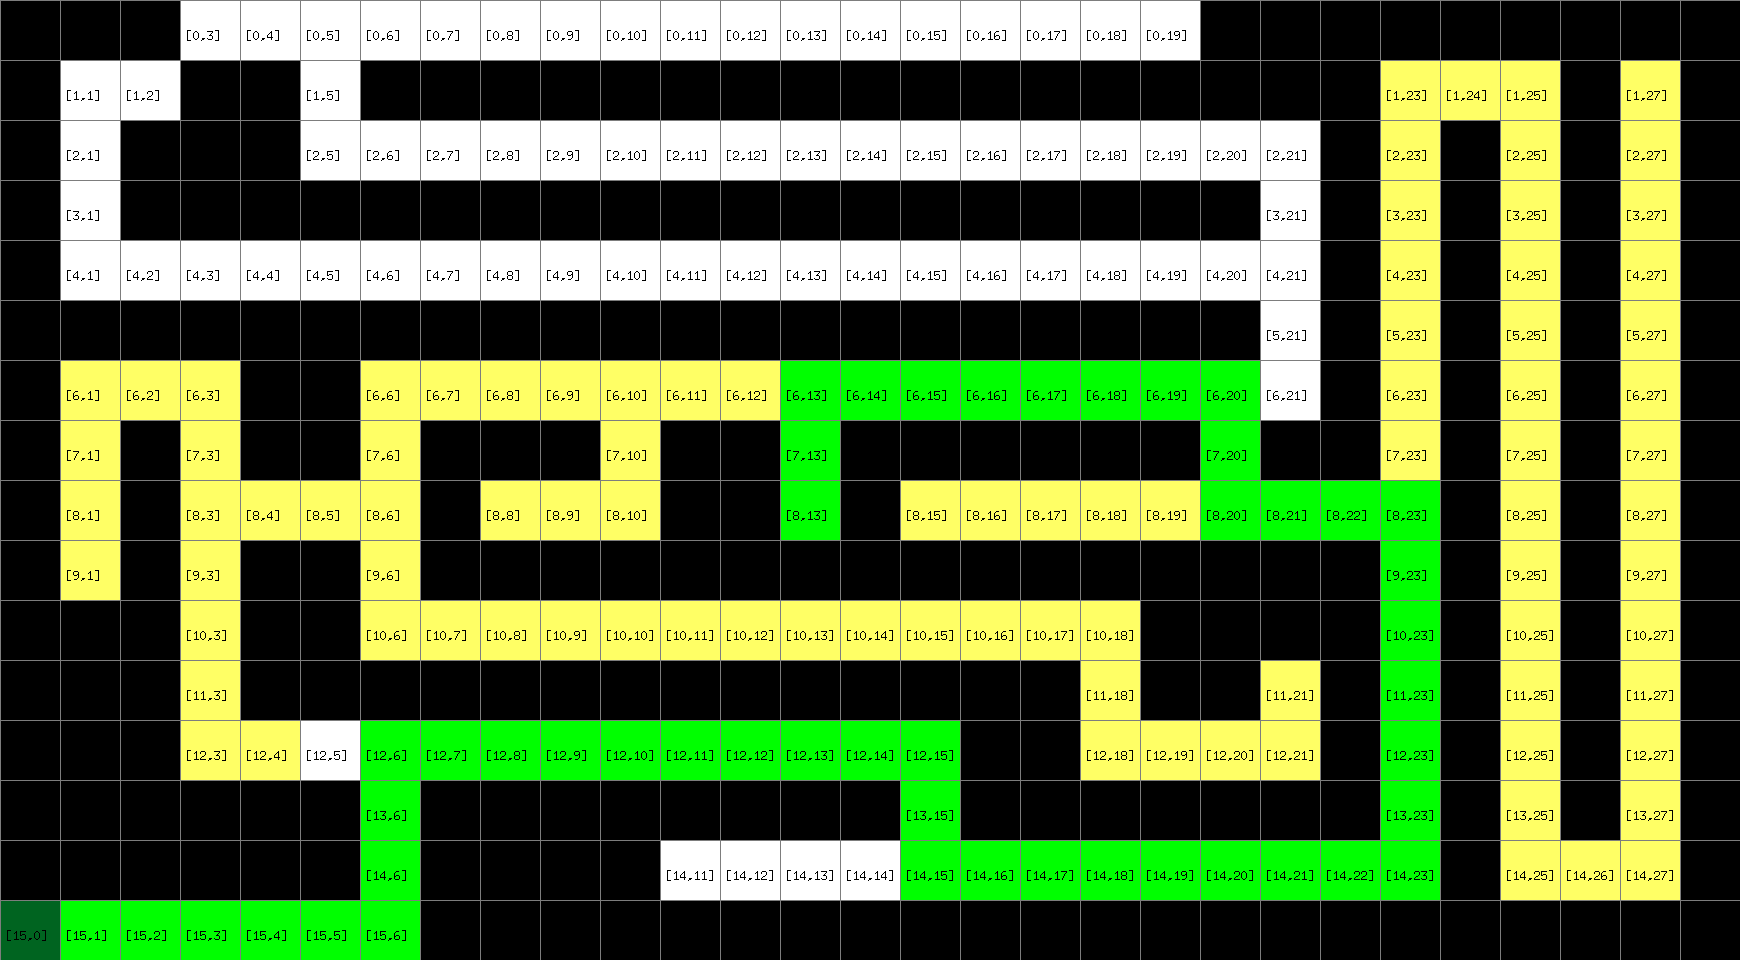
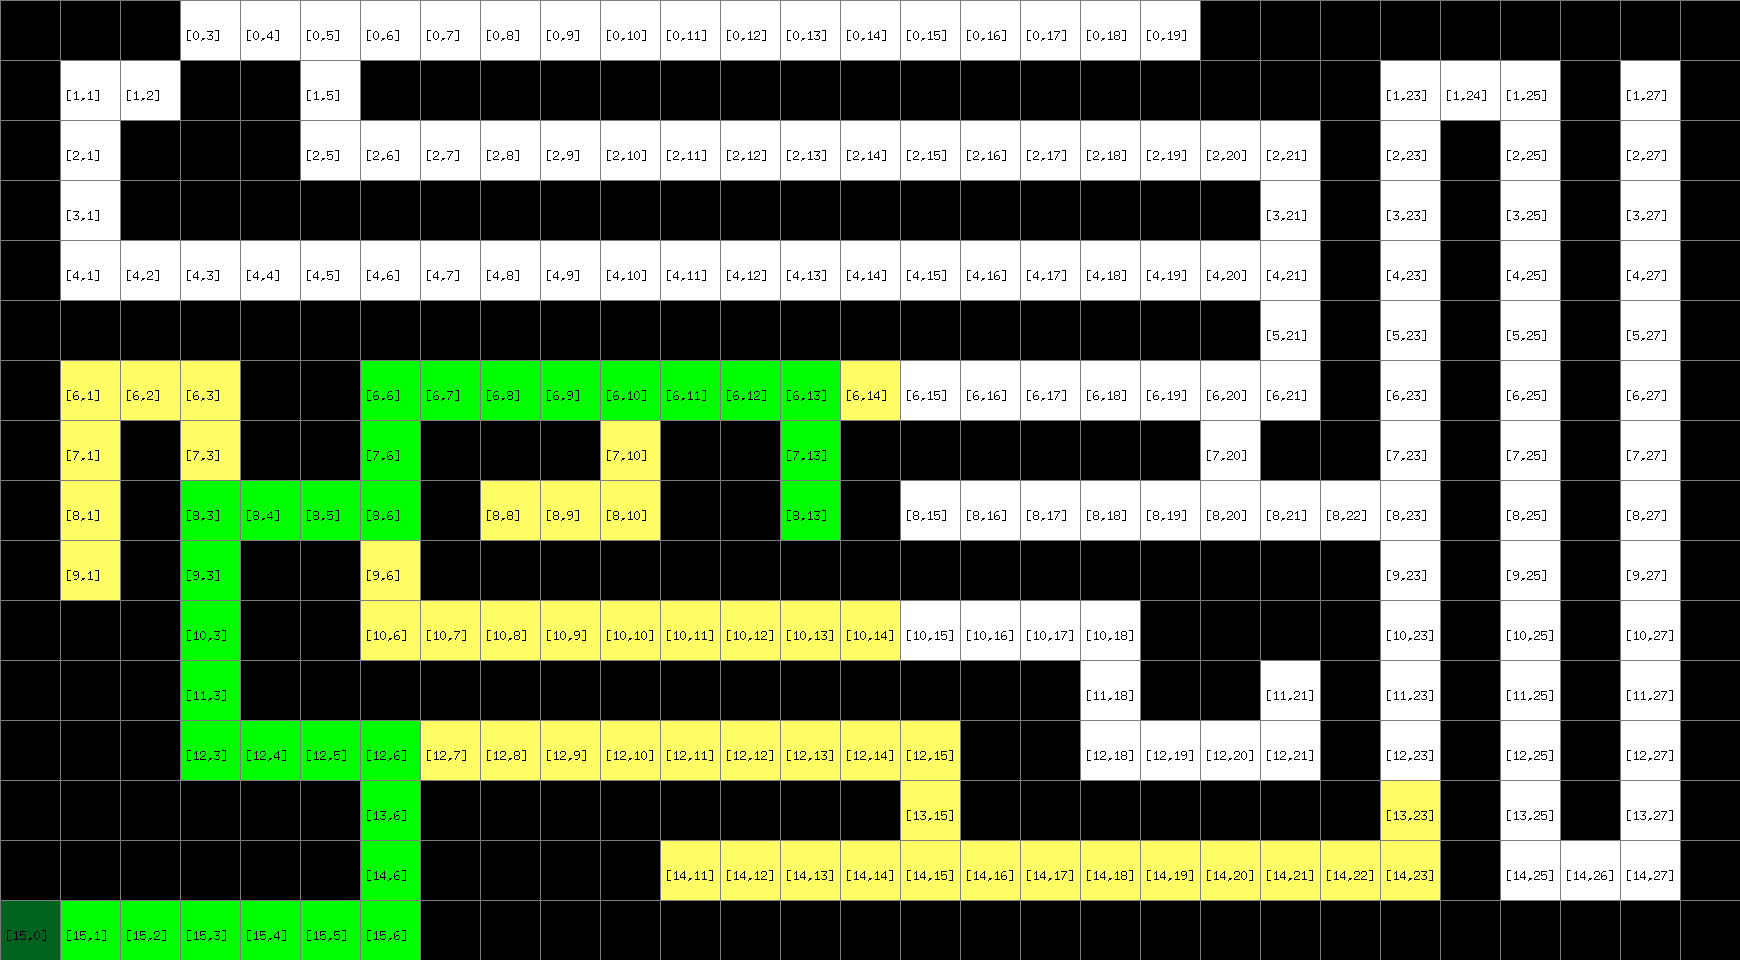
Implements BFS

Changed region(s): [[0.0931, 0.0625, 0.9931, 0.9375]]

diff --git a/udemy/IntroToAI/ai-search/bfs.go b/udemy/IntroToAI/ai-search/bfs.go
@@ -1,0 +1,157 @@
+package main
+
+import (
+	"fmt"
+	"log"
+	"slices"
+)
+
+// BreadthFirstSearch struct implements the BFS algorithm
+type BreadthFirstSearch struct {
+	Frontier []*Node
+	Game     *Maze
+}
+
+func (bfs *BreadthFirstSearch) GetFrontier() []*Node {
+	return bfs.Frontier
+}
+
+func (bfs *BreadthFirstSearch) Add(node *Node) {
+	bfs.Frontier = append(bfs.Frontier, node)
+}
+
+func (bfs *BreadthFirstSearch) ContainsState(i *Node) bool {
+	for _, node := range bfs.Frontier {
+		if node.State == i.State {
+			return true
+		}
+	}
+	return false
+}
+
+func (bfs *BreadthFirstSearch) Empty() bool {
+	return len(bfs.Frontier) == 0
+}
+
+func (bfs *BreadthFirstSearch) Remove() (*Node, error) {
+	if !bfs.Empty() {
+		if bfs.Game.Debug {
+			fmt.Println("BFS Frontier before remove:")
+			for _, n := range bfs.Frontier {
+				fmt.Printf("Node State: %v\n", n.State)
+			}
+		}
+		// BFS uses FIFO (First In, First Out) - remove from the beginning
+		node := bfs.Frontier[0]
+		bfs.Frontier = bfs.Frontier[1:]
+		return node, nil
+	}
+	return nil, fmt.Errorf("Frontier is empty")
+}
+
+func (bfs *BreadthFirstSearch) Solve() {
+	fmt.Println("Solving maze using Breadth-First Search...")
+	bfs.Game.NumExplored = 0
+
+	start := Node{
+		State:  bfs.Game.Start,
+		Parent: nil,
+		Action: "",
+	}
+	bfs.Add(&start)
+	bfs.Game.CurrentNode = &start
+
+	for {
+		if bfs.Empty() {
+			return
+		}
+
+		currentNode, err := bfs.Remove()
+		if err != nil {
+			log.Println("Error removing node from frontier:", err)
+			return
+		}
+
+		if bfs.Game.Debug {
+			fmt.Println("Removed:", currentNode.State)
+			fmt.Println("---------------")
+			fmt.Println()
+		}
+
+		bfs.Game.CurrentNode = currentNode
+		bfs.Game.NumExplored += 1
+
+		// Have we found the solution?
+		if bfs.Game.Goal == currentNode.State {
+			var actions []string
+			var cells []Point
+
+			for {
+				if currentNode.Parent != nil {
+					actions = append(actions, currentNode.Action)
+					cells = append(cells, currentNode.State)
+					currentNode = currentNode.Parent
+				} else {
+					break
+				}
+			}
+
+			// Reverse the actions and cells
+			slices.Reverse(actions)
+			slices.Reverse(cells)
+
+			bfs.Game.Solution = Solution{
+				Actions: actions,
+				Cells:   cells,
+			}
+
+			bfs.Game.Explored = append(bfs.Game.Explored, currentNode.State)
+			break
+		}
+
+		bfs.Game.Explored = append(bfs.Game.Explored, currentNode.State)
+
+		// Build animation frame if appropriate
+		if bfs.Game.Animate {
+			bfs.Game.OutputImage(fmt.Sprintf("tmp/%06d.png", bfs.Game.NumExplored))
+		}
+
+		for _, neighbor := range bfs.Neighbors(currentNode) {
+			if !bfs.ContainsState(neighbor) {
+				if !inExplored(neighbor.State, bfs.Game.Explored) {
+					bfs.Add(&Node{
+						State:  neighbor.State,
+						Parent: currentNode,
+						Action: neighbor.Action,
+					})
+				}
+			}
+		}
+	}
+}
+
+func (bfs *BreadthFirstSearch) Neighbors(node *Node) []*Node {
+	row := node.State.Row
+	col := node.State.Col
+
+	candidates := []*Node{
+		{State: Point{Row: row - 1, Col: col}, Parent: node, Action: "up"},
+		{State: Point{Row: row + 1, Col: col}, Parent: node, Action: "down"},
+		{State: Point{Row: row, Col: col - 1}, Parent: node, Action: "left"},
+		{State: Point{Row: row, Col: col + 1}, Parent: node, Action: "right"},
+	}
+
+	var neighbors []*Node
+	for _, candidate := range candidates {
+		if 0 <= candidate.State.Row && candidate.State.Row < bfs.Game.Height {
+			if 0 <= candidate.State.Col && candidate.State.Col < bfs.Game.Width {
+				if !bfs.Game.Walls[candidate.State.Row][candidate.State.Col].wall {
+					neighbors = append(neighbors, candidate)
+				}
+			}
+		}
+	}
+
+	// BFS does not randomize neighbors - explores in consistent order
+	return neighbors
+}

diff --git a/udemy/IntroToAI/ai-search/main.go b/udemy/IntroToAI/ai-search/main.go
@@ -91,6 +91,9 @@ func main() {
 	case "dfs":
 		m.SearchType = DFS
 		solveDFS(&m)
+	case "bfs":
+		m.SearchType = BFS
+		solveBFS(&m)
 	default:
 		fmt.Printf("Search type %s not recognized\n", searchType)
 		os.Exit(1)
@@ -148,6 +151,13 @@ func (g *Maze) inSolution(p Point) bool {
 
 func solveDFS(m *Maze) {
 	var s DepthFirstSearch
+	s.Game = m
+	fmt.Println("Goal is at:", s.Game.Goal)
+	s.Solve()
+}
+
+func solveBFS(m *Maze) {
+	var s BreadthFirstSearch
 	s.Game = m
 	fmt.Println("Goal is at:", s.Game.Goal)
 	s.Solve()

diff --git a/udemy/IntroToAI/ai-search/dfs.go b/udemy/IntroToAI/ai-search/dfs.go
@@ -42,6 +42,7 @@ func (dfs *DepthFirstSearch) Remove() (*Node, error) {
 				fmt.Printf("Node State: %v\n", n.State)
 			}
 		}
+		// DFS uses LIFO (Last In, First Out) - remove from the end
 		node := dfs.Frontier[len(dfs.Frontier)-1]
 		dfs.Frontier = dfs.Frontier[:len(dfs.Frontier)-1]
 		return node, nil

diff --git a/udemy/IntroToAI/CLAUDE.md b/udemy/IntroToAI/CLAUDE.md
@@ -20,9 +20,20 @@ cd ai-search
 go run main.go -file mazes/maze.txt -search dfs
 ```
 
-Planned search algorithms (only DFS currently implemented):
-- `dfs` - Depth-First Search (implemented)
-- `bfs` - Breadth-First Search (planned)
+Available command-line flags:
+- `-file <path>`: Maze file to solve (default: "maze.txt")
+- `-search <algorithm>`: Search algorithm to use (default: "dfs")
+- `-debug`: Enable verbose debugging output to console
+- `-animate`: Generate an animated PNG showing the search process
+
+Example with animation:
+```bash
+go run main.go -file mazes/maze-100-steps.txt -search dfs -animate
+```
+
+Search algorithms:
+- `dfs` - Depth-First Search (implemented) - Uses LIFO stack, randomizes neighbor order
+- `bfs` - Breadth-First Search (implemented) - Uses FIFO queue, guarantees shortest path
 - `gbfs` - Greedy Best-First Search (planned)
 - `astar` - A* Search (planned)
 - `dijkstra` - Dijkstra's Algorithm (planned)
@@ -58,6 +69,7 @@ All defined in `ai-search/main.go`:
   - `NumExplored`: Count of explored nodes
   - `Debug`: Boolean flag for verbose debug output
   - `SearchType`: Algorithm constant (DFS, BFS, etc.)
+  - `Animate`: Boolean flag for animation generation
 
 - **Point**: Row/column coordinate (used for positions in the maze)
 
@@ -117,12 +129,57 @@ Each search algorithm follows a common structure (see `dfs.go` for the DFS imple
 
 4. **IMPORTANT**: When checking if a cell is traversable in `Neighbors()`, use `wall == false` (open path), not `wall == true` (wall)
 
-5. **Neighbor Ordering**: The DFS implementation randomizes neighbor order before adding them to the frontier. This means multiple runs may explore different paths even with the same maze.
+5. **Neighbor Ordering**:
+   - DFS (`dfs.go`): Randomizes neighbor order before adding them to the frontier. Multiple runs may explore different paths even with the same maze.
+   - BFS (`bfs.go`): Does NOT randomize - explores neighbors in consistent order (up, down, left, right) to guarantee shortest path.
 
-6. **Helper Functions**: `helpers.go` contains utility functions like `inExplored()` for checking if a Point has been visited.
+6. **Algorithm Differences**:
+   - DFS uses LIFO (Last In, First Out) - removes from end of frontier like a stack
+   - BFS uses FIFO (First In, First Out) - removes from beginning of frontier like a queue
+   - BFS guarantees the shortest path but may explore more nodes
+   - DFS may find a solution faster but doesn't guarantee optimality
 
-7. **Main Entry Point**: `main.go` handles file loading, validation, and dispatches to the appropriate solve function based on the `-search` flag
+7. **Helper Functions**: `helpers.go` contains utility functions like `inExplored()` for checking if a Point has been visited.
+
+8. **Main Entry Point**: `main.go` handles file loading, validation, and dispatches to the appropriate solve function based on the `-search` flag
+
+### Image Generation
+
+The program generates visual output using `image.go`:
+
+- **Static Image**: After solving, generates `image.png` showing the final solution with:
+  - Black: Walls
+  - Dark Green: Start position ('A')
+  - Red: Goal position ('B')
+  - Green: Solution path
+  - Yellow: Explored cells (not part of solution)
+  - White: Unvisited cells
+  - Cell coordinates displayed on each cell
+
+- **Animation**: With `-animate` flag, generates `animation.png` (APNG format) showing the search process step-by-step:
+  - Each frame stored temporarily in `tmp/` directory
+  - Final animation combines all frames with the solution
+  - Orange color indicates the current node being processed
+
+- **Cell Size**: Images use 60x60 pixel cells (configurable via `cellSize` constant in `image.go`)
+
+- **Grid Lines**: Gray grid lines separate cells for clarity
+
+### Directory Structure
+
+- `mazes/`: Contains maze text files for testing different scenarios
+  - `maze.txt`: Basic maze
+  - `maze2.txt`: Alternative maze
+  - `maze-100-steps.txt`: Larger maze with longer solution path
+- `tmp/`: Temporary storage for animation frames (auto-created and emptied on startup)
 
 ## Module Organization
 
 This is a Go workspace project. When adding new modules or working with dependencies, use the workspace-aware commands and ensure `go.work` is updated if needed.
+
+### Dependencies
+
+The project uses the following external packages:
+- `github.com/StephaneBunel/bresenham`: For drawing grid lines
+- `github.com/kettek/apng`: For creating animated PNG files
+- `golang.org/x/image/font`: For rendering text on images
